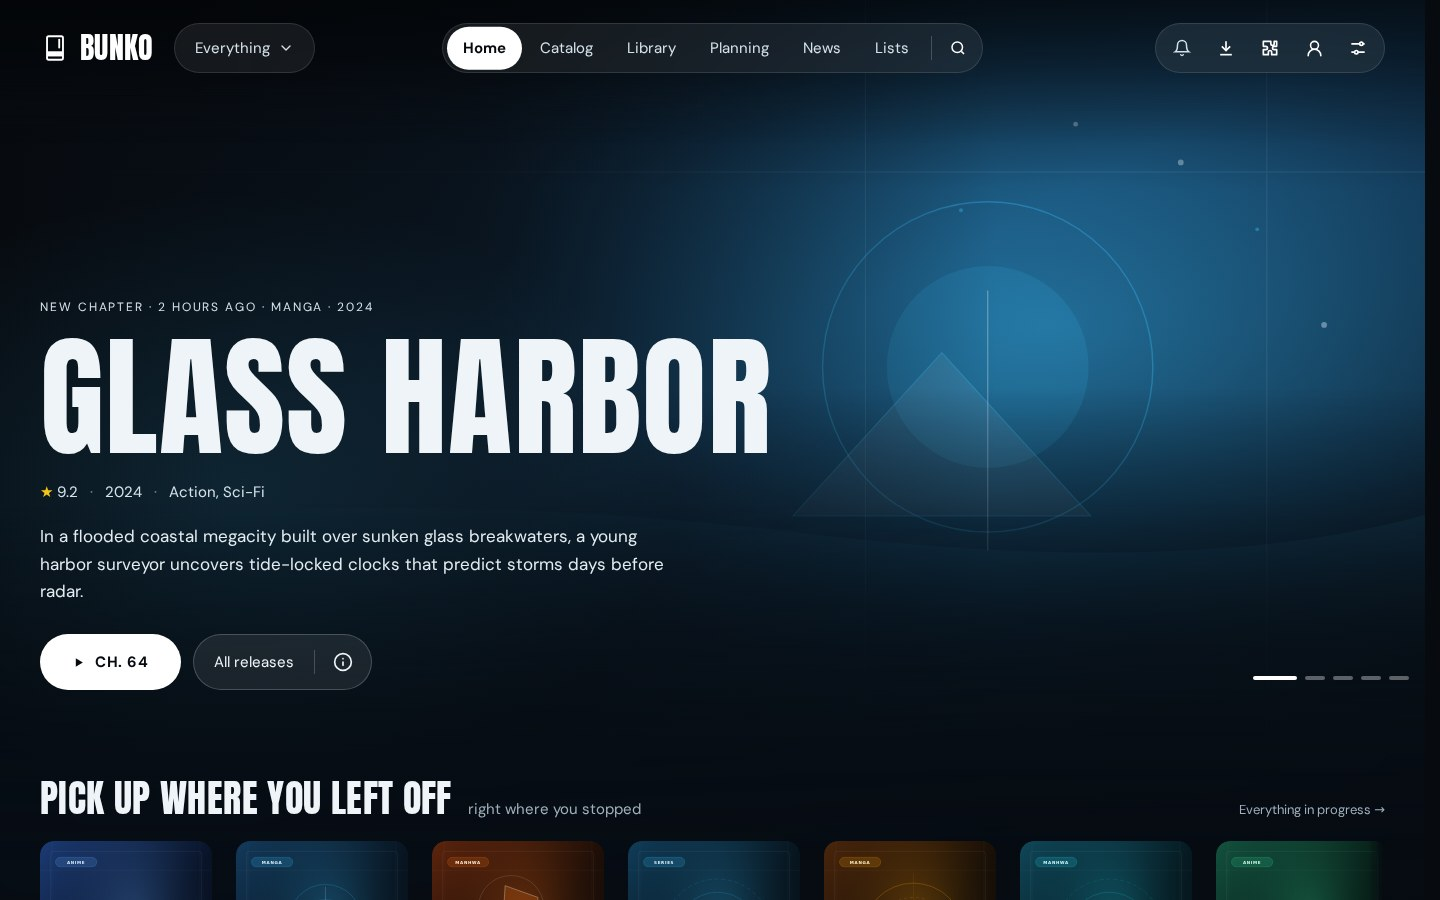
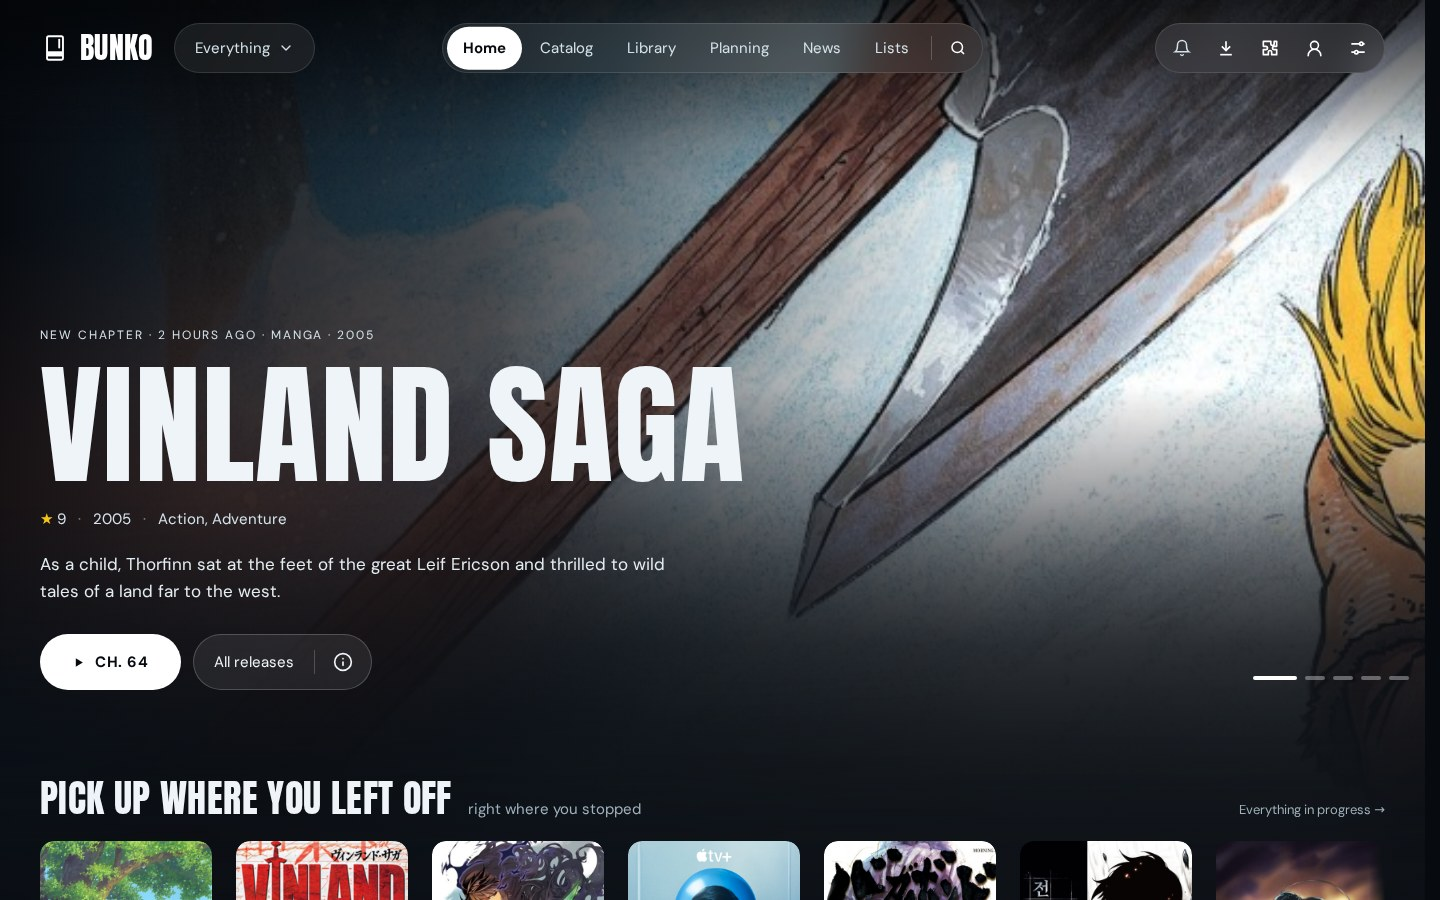
docs: refresh README screenshots from live demo with official covers (#158)

diff --git a/README.md b/README.md
@@ -34,12 +34,12 @@ Bunko ships with **no bundled content sources, scrapers, or extension repositori
 
 ## Product preview
 
-All screenshots below are captured reproducibly from Bunko's isolated, fictional [public demo](DEMO.md) ([capture manifest](docs/assets/screenshots/manifest.json)).
+All screenshots below are captured from Bunko's isolated [public demo](DEMO.md) with live public-API catalog metadata ([capture manifest](docs/assets/screenshots/manifest.json)).
 
 <table>
   <tr>
     <td width="50%">
-      <img src="docs/assets/screenshots/bunko-demo-catalog.jpg" alt="Bunko catalog with 12 media kinds, filters, and custom artwork" /><br />
+      <img src="docs/assets/screenshots/bunko-demo-catalog.jpg" alt="Bunko catalog with 13 media kinds, filters, and official public-API covers" /><br />
       <sub><strong>Catalog</strong> — Filter and sort across 12+ reading and video kinds from one unified grid.</sub>
     </td>
     <td width="50%">
